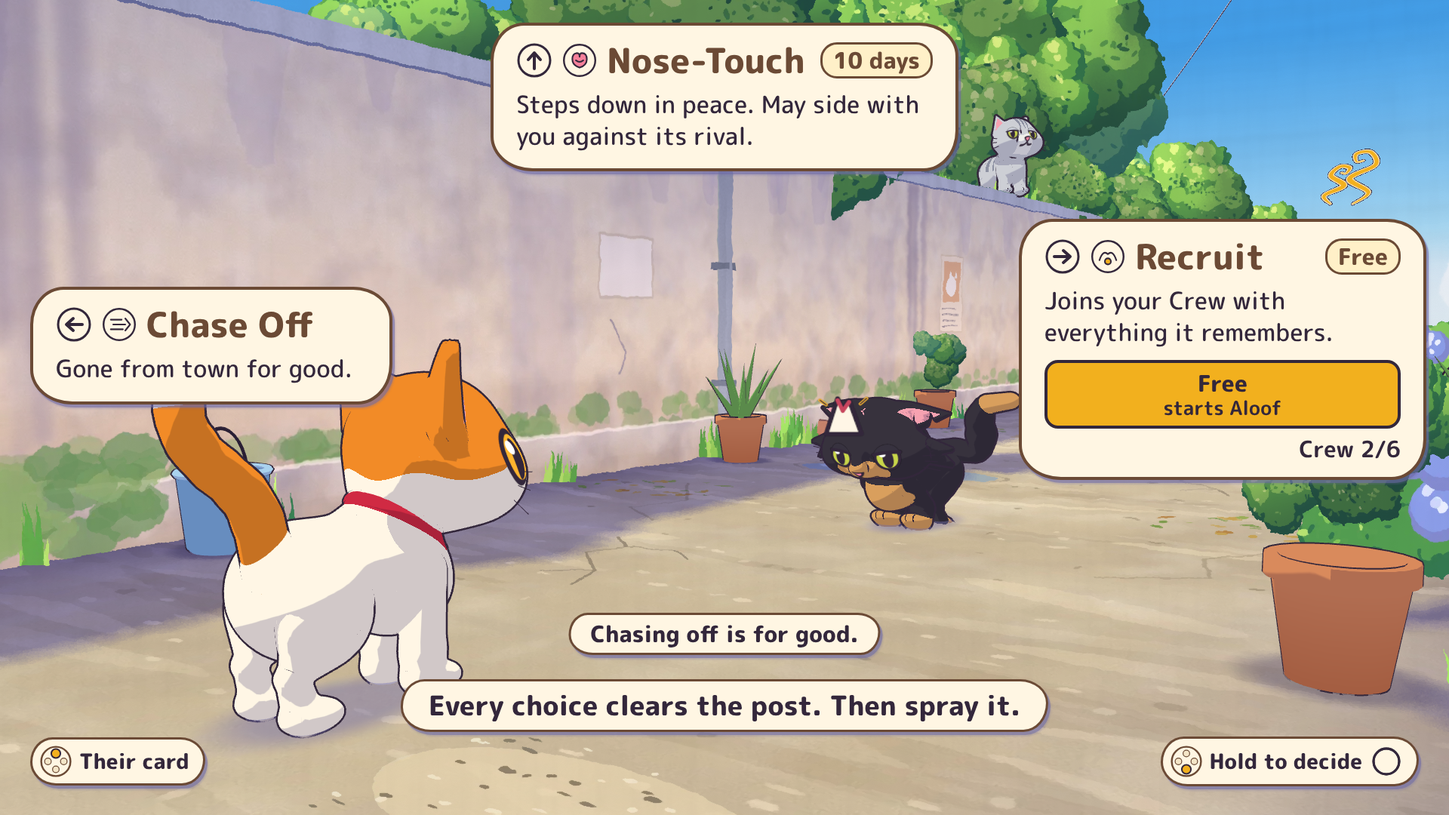
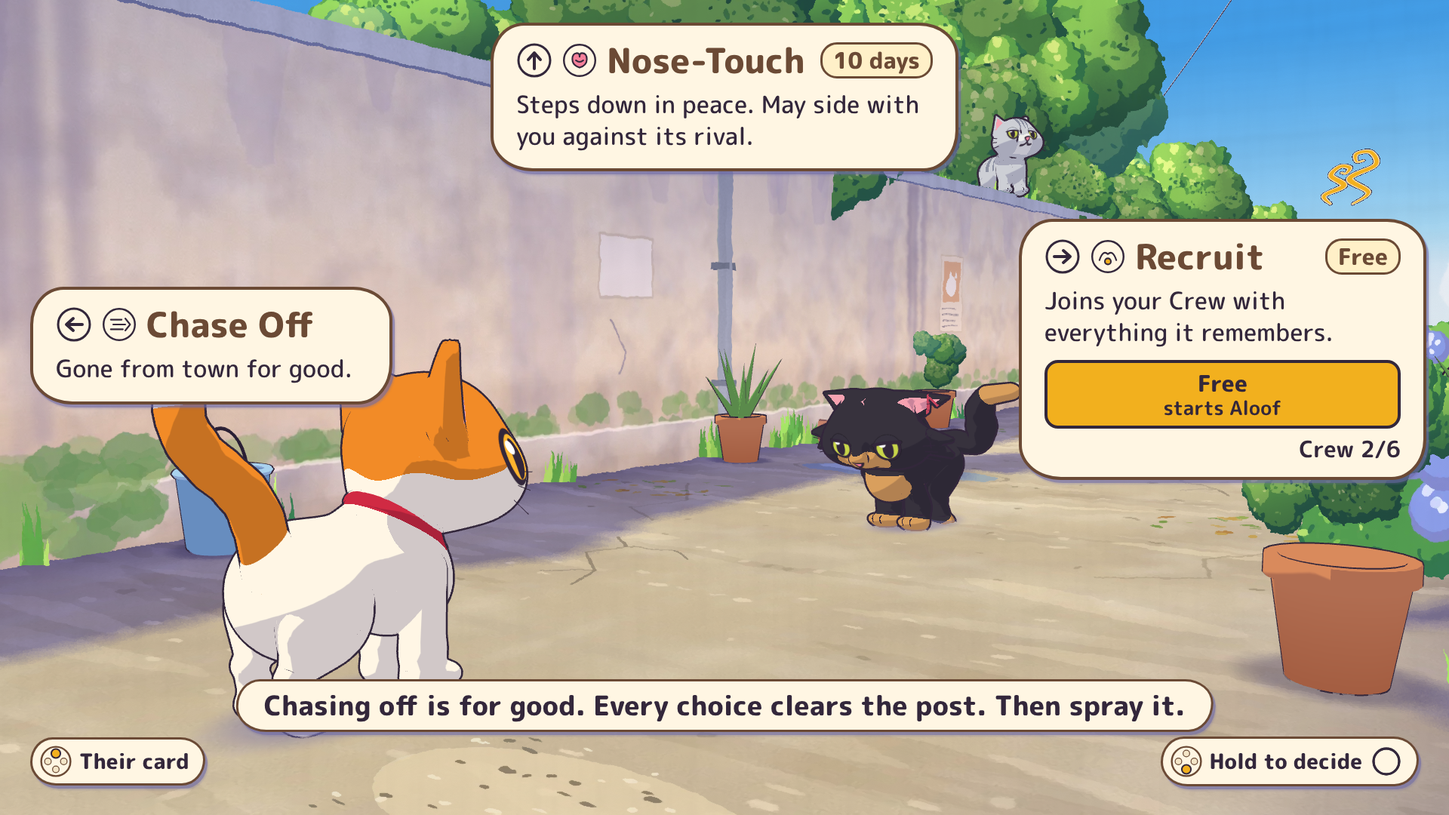
fix(M3): round 2 fixes - combat Verdict pose and look-at, ear-notch scar, bribe shot cleanup, pin glyph, closing stamp
Task: artifact-slice M3 (review-round2.md)

Claude-Session: https://claude.ai/code/session_01K9BzCtu5ca2nRxDXecreHZ

Changed region(s): [[0.1562, 0.825, 0.8438, 0.9167], [0.375, 0.7333, 0.625, 0.825], [0.5625, 0.4583, 0.7188, 0.6417]]

diff --git a/prototypes/artifact-slice/src/ui/verdict-stage.js b/prototypes/artifact-slice/src/ui/verdict-stage.js
@@ -1,49 +1,73 @@
 // PROTOTYPE - NOT FOR PRODUCTION (Cat RPG artifact showcase slice; throwaway, see README.md)
 // Staging the cat being judged at a Verdict (review round 1, fix 4; plan §1.1 #3 "shows on his model (a Scar)"; mock
-// 07): the subject sits low with its ears flat back (the 'routed' posture), and its fresh Scar is drawn on its model as
-// an inked mark at the head. Presentation only: it reads the Scar list the nemesis sim already wrote, never a cat record.
+// 07): the subject sits low with its ears flat back (the 'routed' posture), and its fresh Scar shows on its model as a
+// small notch bitten out of the camera-side ear (review round 2, fix 2). Presentation only: it reads the Scar list the
+// nemesis sim already wrote, never a cat record.
 import * as THREE from 'three';
 
-const INK = '#33273B', CREAM = '#FFF6E6', CRIMSON = '#C8455E', GOLD = '#F2B233';
-let tex = null;
-/** One inked "fresh scar" mark (a notch cut with two fresh ticks), drawn once. */
-function scarTexture() {
-  if (tex) return tex;
-  const S = 128, cv = document.createElement('canvas'); cv.width = cv.height = S;
-  const g = cv.getContext('2d'); g.lineJoin = 'round'; g.lineCap = 'round';
-  // the notch: a cream ear tip with a V bitten out, an ink line, the cut in crimson
-  g.beginPath(); g.moveTo(30, 104); g.lineTo(52, 26); g.lineTo(62, 50); g.lineTo(74, 30); g.lineTo(98, 104); g.closePath();
-  g.fillStyle = CREAM; g.fill(); g.lineWidth = 9; g.strokeStyle = INK; g.stroke();
-  g.beginPath(); g.moveTo(52, 30); g.lineTo(62, 54); g.lineTo(74, 34); g.lineWidth = 8; g.strokeStyle = CRIMSON; g.stroke();
-  // two fresh ticks
-  g.lineWidth = 7; g.strokeStyle = GOLD;
-  for (const [x0, y0, x1, y1] of [[18, 30, 30, 40], [108, 26, 96, 38]]) { g.beginPath(); g.moveTo(x0, y0); g.lineTo(x1, y1); g.stroke(); }
-  g.lineWidth = 2.5; g.strokeStyle = INK;
-  for (const [x0, y0, x1, y1] of [[18, 30, 30, 40], [108, 26, 96, 38]]) { g.beginPath(); g.moveTo(x0, y0); g.lineTo(x1, y1); g.stroke(); }
-  tex = new THREE.CanvasTexture(cv); tex.colorSpace = THREE.SRGBColorSpace;
-  return tex;
+/**
+ * Where the fresh notch goes on one ear, in the ear's own coordinates (the `aux` attribute the cat bake writes: u
+ * across, v up the ear): the mouth on the ear's outer edge a little above half its height, sized to the ear. Read from
+ * the cat's own mesh, so it fits every cast. The fill shader cuts the V (uNick / uNickS, src/render/cats/shaders.js).
+ * @param side +1 earL, -1 earR (the ear's outer edge is +u on earL and -u on earR)
+ * @returns {{nick: THREE.Vector4, size: THREE.Vector4}} | null
+ */
+export function earNick(cat, side) {
+  const sk = cat.object3D && cat.object3D.getObjectByProperty('isSkinnedMesh', true);
+  const bone = cat.bones && (side < 0 ? cat.bones.earR : cat.bones.earL);
+  if (!sk || !bone || !sk.geometry.attributes.aux) return null;
+  const bi = sk.skeleton.bones.indexOf(bone); if (bi < 0) return null;
+  const g = sk.geometry, A = g.attributes.aux, SI = g.attributes.skinIndex, SW = g.attributes.skinWeight;
+  const uv = [];
+  for (let i = 0; i < A.count; i++) {
+    let w = 0; for (let k = 0; k < 4; k++) if (SI.getComponent(i, k) === bi) w += SW.getComponent(i, k);
+    if (w >= 0.9) uv.push([A.getX(i), A.getY(i)]);
+  }
+  if (uv.length < 8) return null;
+  let v0 = Infinity, v1 = -Infinity, u0 = Infinity, u1 = -Infinity;
+  for (const [u, v] of uv) { v0 = Math.min(v0, v); v1 = Math.max(v1, v); u0 = Math.min(u0, u); u1 = Math.max(u1, u); }
+  const vE = v0 + 0.58 * (v1 - v0), band = 0.12 * (v1 - v0);
+  const edge = uv.filter(([, v]) => Math.abs(v - vE) < band).reduce((a, [u]) => Math.max(a, u * side), -Infinity);
+  if (!Number.isFinite(edge)) return null;
+  const width = u1 - u0;   // the ear's widest span (at its base)
+  return { nick: new THREE.Vector4(side, edge * side, vE, side), size: new THREE.Vector4(0.45 * width, 0.11 * (v1 - v0), 0.007, 0) };
 }
 
 /**
  * Pose the judged cat and mark its fresh Scar.
  * @param cat a createCat() handle (street rival, or a combat Fighter's `.cat`)
- * @param o {scar: true to draw the mark (the cat has a Scar from this encounter), side: +1 | -1 (which ear faces the camera)}
+ * @param o {scar: true to cut the notch (the cat has a Scar from this encounter); side: +1 earL | -1 earR, or 'auto'
+ *   with `camera`: the ear nearer that camera on the first frame it draws the cat (then fixed, so the Scar never swaps
+ *   ears when the cat turns); squash: false to skip the low-and-spread root scale (combat: the routed crouch alone)}
  * @returns undo()
  */
-export function stageSubject(cat, { scar = true, side = 1 } = {}) {
+export function stageSubject(cat, { scar = true, side = 'auto', camera = null, squash = true } = {}) {
   if (!cat) return () => {};
   if (cat.setPosture) cat.setPosture('routed');
   const o3 = cat.object3D, s0 = o3 ? o3.scale.clone() : null;
-  if (o3) o3.scale.set(s0.x * 1.06, s0.y * 0.9, s0.z * 1.06);   // low and spread, the beaten loaf of mock 07
-  let sprite = null;
-  const head = cat.bones && cat.bones.head;
-  if (scar && head) {
-    sprite = new THREE.Sprite(new THREE.SpriteMaterial({ map: scarTexture(), depthTest: false, depthWrite: false, transparent: true, toneMapped: false }));
-    sprite.name = 'verdict-scar'; sprite.renderOrder = 20;
-    sprite.position.set(0.085 * side, 0.115, 0.01); sprite.scale.setScalar(0.15);   // on the camera-side ear, big enough to read at the two-shot
-    head.add(sprite);
-  }
-  return () => { if (cat.setPosture) cat.setPosture(null); if (o3) o3.scale.copy(s0); if (sprite) { sprite.removeFromParent(); sprite.material.dispose(); } };
+  if (o3 && squash) o3.scale.set(s0.x * 1.06, s0.y * 0.9, s0.z * 1.06);   // low and spread, the beaten loaf of mock 07
+  const sk = scar && o3 ? o3.getObjectByProperty('isSkinnedMesh', true) : null;
+  const U = sk && Array.isArray(sk.material) && sk.material[0].uniforms && sk.material[0].uniforms.uNick ? sk.material[0].uniforms : null;
+  // part of the ear: depth-tested, lit and inked with it (never a sprite on the head)
+  const cut = (sd) => { const n = earNick(cat, sd); if (n) { U.uNick.value.copy(n.nick); U.uNickS.value.copy(n.size); } };
+  let hook = null, prev = null;
+  if (U && side !== 'auto') cut(side < 0 ? -1 : 1);
+  else if (U && camera) {
+    prev = sk.onBeforeRender; const x = new THREE.Vector3(), d = new THREE.Vector3();
+    hook = sk.onBeforeRender = function (r, sc, cam, ...rest) {
+      if (cam === camera) {   // the first frame through the scene camera (not the shadow pass): the lens-side ear
+        x.setFromMatrixColumn(o3.matrixWorld, 0); d.setFromMatrixPosition(camera.matrixWorld).sub(o3.getWorldPosition(new THREE.Vector3()));
+        cut(x.dot(d) >= 0 ? 1 : -1); sk.onBeforeRender = prev;
+      }
+      return prev.call(this, r, sc, cam, ...rest);
+    };
+  } else if (U) cut(-1);
+  return () => {
+    if (cat.setPosture) cat.setPosture(null);
+    if (o3) o3.scale.copy(s0);
+    if (hook && sk.onBeforeRender === hook) sk.onBeforeRender = prev;
+    if (U) U.uNick.value.set(0, 0, 0, 1);
+  };
 }
 
 /** True when the cat's newest Scar came from the encounter its Verdict is about (offer.serial), or on the offer's day. */

diff --git a/prototypes/artifact-slice/src/ui/rivalsboard.js b/prototypes/artifact-slice/src/ui/rivalsboard.js
@@ -60,6 +60,8 @@ const stamp = (g, col) => RV.stamp(g, { size: 40, color: col || C.cream });
 const moon = () => RV.stamp(`<path d="M4 -12A12 12 0 1 0 12 4A9 9 0 1 1 4 -12Z" fill="${C.cream}" ${st2}/>`, { size: 40, color: '#4A3F6E' });
 const stormIco = () => svg(30, 26, '-15 -13 30 26', `<path d="${K.blob(K.pomPts(0, -3, 10, 5, 0.16))}" fill="#4A3F55"/><path d="M-1 2L-5 10H0L-2 15L6 5H1L3 2Z" fill="${C.staticYellow}" stroke="${ink}" stroke-width="1.6"/>`);
 const sprigIco = (s = 1) => svg(34 * s, 34 * s, '-6 -30 34 34', RV.leafSprig({ x: 0, y: 0, s: 1, rot: -10 }));
+// a push pin (crimson head, ink needle), tilted: marks a pinned history entry on the full card
+const PIN = svg(26, 26, '-13 -13 26 26', `<g transform="rotate(35)"><path d="M0 4V13" stroke="${ink}" stroke-width="2.6" stroke-linecap="round"/><path d="M-7 4H7L4 -2V-8H6V-12H-6V-8H-4V-2Z" fill="${C.crimson || '#C8455E'}" ${st2}/></g>`);
 const tapeStar = `<svg class="rb-star" width="30" height="22" viewBox="-15 -11 30 22"><path d="M-14 -7H14V7H-14Z" fill="#F6E7B8"/><path d="M0 -6l2 4.4l4.8 .6l-3.5 3.4l.9 4.8l-4.2 -2.3l-4.2 2.3l.9 -4.8l-3.5 -3.4l4.8 -.6z" fill="${C.gold}" stroke="${ink}" stroke-width="1.3"/></svg>`;
 const crownSvg = (lit) => svg(60, 40, '-30 -20 60 40', K.inked('M-26 10L-26 -10L-13 0L0 -18L13 0L26 -10L26 10Z', lit ? C.gold : 'none', 2.6));
 const puffsSvg = (n, furious) => { let s = ''; const P = [[-92, -10, 22, 2], [92, -22, 25, 7], [0, -56, 21, 4]]; for (let i = 0; i < n; i++) { const [x, y, r, sd] = P[i]; s += K.dustCloud({ x, y, r: r * (furious ? 1.22 : 1), puffs: 4, seed: sd }); } return svg(260, 120, '-130 -90 260 120', s); };
@@ -140,6 +142,7 @@ const CSS = `
 .rb-full .pt { display:inline-flex; align-items:center; gap:6px; height:42px; padding:0 14px 0 6px; background:var(--cream); border:3px solid var(--ink); border-radius:8px 12px 10px 12px; font:800 24px/1 var(--font); }
 .rb-full .hist { display:flex; flex-direction:column; gap:10px; font:600 26px/1.2 var(--font); }
 .rb-full .hist b { font:800 22px/1 var(--font); color:var(--cocoa); min-width:70px; margin-right:10px; display:inline-block; white-space:nowrap; }
+.rb-full .hist i.pin { display:inline-block; width:30px; margin-right:6px; vertical-align:-4px; font-style:normal; }
 .rb-full .stage { height:470px; border-radius:30px; background:var(--recessed); display:flex; align-items:center; justify-content:center; overflow:hidden; }
 .rb-full .foot { position:absolute; right:36px; bottom:26px; display:flex; gap:12px; }
 .rb-full .legend { position:absolute; left:40px; bottom:30px; font:800 30px/1 var(--font); color:#8C6E58; transform:rotate(-6deg); border:4px solid #B04A3A; color:#B04A3A; padding:8px 18px; border-radius:10px; }
@@ -400,7 +403,9 @@ export class RivalsBoard {
     const ties = []; if (c.answersTo && m.cats[c.answersTo] && m.cats[c.answersTo].discovered) ties.push(`<span class="pt">${K.ui.portrait({ size: 34, ring: C.cream, bg: '#F7C99A', cat: m.cats[c.answersTo].kit })}${c.answersTo === 'mikan' ? 'Crew of' : 'Boss'}: ${m.cats[c.answersTo].name}</span>`);
     if (c.role === 'boss') for (const o of Object.values(m.cats)) if (o.answersTo === c.id && o.discovered && o.state !== 'gone') ties.push(`<span class="pt">${K.ui.portrait({ size: 34, ring: C.cream, bg: '#F7C99A', cat: o.kit })}Gang: ${o.name}</span>`);
     for (const t of m.tiesOf(c.id)) ties.push(`<span class="pt">${TAGICON[t.kind]}${TAGWORD[t.kind]}: ${m.cats[t.to].name}</span>`);
-    const hist = (c.historyAll || (c.history ? [c.history] : [])).map((h) => `<div><b>${h.day}</b>${h.line}</div>`).join('') || '<div>—</div>';
+    // pinned entries (listed first) carry a small pin, the rest an equal gap, so the order reads as pinned-then-recent (review round 2, fix 4)
+    const hl = c.historyAll || (c.history ? [c.history] : []), anyPin = hl.some((h) => h.pinned);
+    const hist = hl.map((h) => `<div>${anyPin ? `<i class="pin"${h.pinned ? ' title="Pinned"' : ''}>${h.pinned ? PIN : ''}</i>` : ''}<b>${h.day}</b>${h.line}</div>`).join('') || '<div>—</div>';
     const anger = c.role === 'boss' && c.context && c.context.kind === 'anger' ? `<div class="lab">ANGER</div><div class="row">${puffsSvg(c.marks.puffs || 0, c.marks.puffs >= 3).replace('width="160" height="120"', 'width="110" height="82"')}<b>${c.context.stage}</b></div><div class="row" style="font-size:24px;font-weight:600">Rises when you over-mark or counter-spray in the Lane. Cools each night.</div><div class="row" style="font-size:24px;font-weight:600">Next fight with him: ${({ Calm: 'not Fired Up', Riled: 'Fired Up for a while', Seething: 'Fired Up for a long while', Furious: 'Fired Up all fight' })[c.context.stage]}. Spent after his next fight.</div><div class="lab">OBJECTIVE</div><div class="row">Mark the Lane until he comes down.</div>` : '';
     const fears = (c.fears || []).map((x) => stamp(RV.GLYPH[x] || RV.GLYPH.question)).join('') + stamp(RV.GLYPH.question);
     f.innerHTML = `<div class="ban">${K.ui.portrait({ size: 88, ring: C.gold, bg: '#F7C99A', cat: { ...c.kit, outline: 'ink', scars: c.scars } })}${c.name.toUpperCase()} ${c.title ? `<small>${c.title}</small>` : ''}</div>

diff --git a/prototypes/artifact-slice/src/entries/combat.js b/prototypes/artifact-slice/src/entries/combat.js
@@ -541,12 +541,13 @@ function stageVerdict(id, o = {}) {
   // the judged cat sits 1.7 m in front of Mikan, toward the middle of the ring (never into a wall)
   const d = new THREE.Vector3(-M.x, 0, -M.z); if (d.lengthSq() < 1) { const e = ent(snap.controlled); d.set(e.facing[0], 0, e.facing[1]); } d.normalize();
   const S = M.clone().addScaledVector(d, 1.7); S.y = M.y;
-  vstage = { id, M, S, d, undo: o.stageSubject ? o.stageSubject(T.cat) : null };
+  vstage = { id, M, S, d, undo: null };
   verdictCam();
+  if (o.stageSubject) vstage.undo = o.stageSubject(T.cat, { camera: cam });   // the Scar goes on the lens-side ear
   const p = project(T.head.clone().set(S.x, S.y + 0.6 * T.scaleK, S.z)), w = app.clientWidth, h = app.clientHeight, k = Math.min(w / 1920, h / 1080);
   return { x: 960 + (p.x - w / 2) / k, y: 540 + (p.y - h / 2) / k };
 }
-function unstageVerdict() { if (vstage && vstage.undo) vstage.undo(); vstage = null; if (hud) { hud.el.style.visibility = ''; hud.showChrome(true); } if (scr) scr.el.style.visibility = ''; }
+function unstageVerdict() { if (vstage && vstage.undo) vstage.undo(); { const T = vstage && F(vstage.id); if (T && T.kl) { T.kl.rim.mesh.visible = true; T.clowder = null; } } vstage = null; if (hud) { hud.el.style.visibility = ''; hud.showChrome(true); } if (scr) scr.el.style.visibility = ''; }
 /** The low two-shot: Mikan left and near, the judged cat right of centre and farther; the camera stays off the walls. */
 function verdictCam() {
   const { M, S, d } = vstage, mid = M.clone().lerp(S, 0.45);
@@ -560,6 +561,7 @@ function verdictCam() {
   if (room < want) { cam.position.copy(pivot).addScaledVector(dir, Math.max(1.6, room)); cam.lookAt(mid.x, mid.y + 0.52, mid.z); cam.updateMatrixWorld(); }
 }
 /** Per frame while staged: only Mikan and the judged cat on stage, posed; HUD, rings and screen marks hidden. */
+const VERDICT_KEY = new THREE.Vector3(0x33 / 255, 0x27 / 255, 0x3B / 255);   // Ink: the judged cat's keyline at its Verdict (no side colour)
 function verdictFrame() {
   const { id, M, S } = vstage, C = F(snap.controlled), T = F(id);
   for (const f of fighters.values()) if (f !== C && f !== T) f.root.visible = false;
@@ -567,7 +569,11 @@ function verdictFrame() {
     T.root.visible = true; T.root.position.copy(S); T.root.rotation.set(0, Math.atan2(M.x - S.x, M.z - S.z), 0);
     T.pose.position.set(0, 0, 0); T.pose.rotation.set(0, 0, 0); T.pose.scale.set(1, 1, 1);
     T.fadeTarget = 1; T.fade = 1; T.stepFade(0); T.setLook('normal'); T.cat.setGait('idle', 0);
-    T.cat.lookAt(M.clone().lerp(S, 0.6)); T.head.set(S.x, S.y + 0.6 * T.scaleK, S.z);
+    // eyes up at Mikan's head (review round 2, fix 1): the routed posture already dips the head, so a ground target
+    // pitched the face into the chest. The side colour (red = enemy) goes too, the fight is over,
+    T.cat.lookAt(new THREE.Vector3(M.x, M.y + 0.6 * (C ? C.scaleK : 1), M.z)); T.head.set(S.x, S.y + 0.6 * T.scaleK, S.z);
+    // and its cream rim shell, which pokes through the crouched flank and paws as light seams
+    if (T.kl) { T.kl.key.mat.uniforms.uInk.value.copy(VERDICT_KEY); T.clowder = 'verdict'; T.kl.rim.mesh.visible = false; }
   }
   if (C) { C.root.visible = true; C.root.position.copy(M); C.root.rotation.y = Math.atan2(S.x - M.x, S.z - M.z); C.pose.rotation.set(0, 0, 0); C.fadeTarget = 1; C.fade = 1; C.stepFade(0); C.cat.lookAt(T ? T.head : null); }
   verdictCam();
@@ -613,7 +619,12 @@ function present(dt, alpha, menu = [], cut = null) {
       if (bo && bd > 1e-3) { le._opp = { dir: [(bo.pos[0] - e.pos[0]) / bd, (bo.pos[2] - e.pos[2]) / bd], dist: bd }; le._side = (e.id.charCodeAt(0) + e.id.length) % 2 ? 1 : -1; }
     }
     const koFreeze = ko && realT - ko.t0 < ko.freeze;
-    f.update(le, cut && cut.id === e.id ? dt : (frozen || koFreeze) ? 0 : dt * (s.slow_blink ? 0.05 : 1) * (ko ? 0.25 : 1), realT, tw, dt);
+    // at the Verdict vantage the two staged cats stand still on their marks: the sim may still be playing the routed
+    // bolt, which would walk the judged cat in place and aim its look from the wrong spot (review round 2, fix 1)
+    const vs = vstage && (e.id === vstage.id || e.id === s.controlled) ? vstage : null;
+    if (vs) { const [a, b] = e.id === vs.id ? [vs.S, vs.M] : [vs.M, vs.S], d = Math.hypot(b.x - a.x, b.z - a.z) || 1;
+      f.update({ ...le, pos: [a.x, a.y, a.z], facing: [(b.x - a.x) / d, (b.z - a.z) / d], anim: 'idle', anim_t: 0, intent: null, _opp: null, can_move: 1, attack: null }, dt, realT, tw, dt); }
+    else f.update(le, cut && cut.id === e.id ? dt : (frozen || koFreeze) ? 0 : dt * (s.slow_blink ? 0.05 : 1) * (ko ? 0.25 : 1), realT, tw, dt);
     if (ko && ko.f === f && realT - ko.t0 < ko.freeze + ko.slowS) {
       f.root.visible = true;
       // the defeated cat FLIES (C12): launched away from its attacker on a high arc, spinning, a dust trail behind

diff --git a/prototypes/artifact-slice/src/ui/sniffcards.js b/prototypes/artifact-slice/src/ui/sniffcards.js
@@ -25,7 +25,7 @@ const CSS = `
 .sn-main .tag { position:absolute; left:-18px; top:-24px; transform:rotate(-6deg); }
 .sn-main.legend { background:#EFE3C8; border-color:#9C8A72; }
 .sn-main.legend .por { filter:sepia(.6) saturate(.6) opacity(.85); }
-.sn-main .stampx { position:absolute; left:50%; top:200px; transform:translateX(-50%) rotate(-12deg); padding:10px 26px; border:6px solid #B04A3A; border-radius:12px; color:#B04A3A; font:800 54px/1 var(--font); background:rgba(255,246,227,.6); white-space:nowrap; }
+.sn-main .stampx { position:absolute; left:calc(50% + 175px); top:250px; transform:translateX(-50%) rotate(-12deg); padding:8px 18px; border:6px solid #B04A3A; border-radius:12px; color:#B04A3A; background:rgba(255,246,227,.6); line-height:0; }
 .sn-side { position:absolute; width:400px; height:300px; padding:18px 22px; text-align:center; animation:snin .24s steps(4) .1s both; }
 .sn-side .ti { font:800 34px/1.1 var(--font); margin-top:8px; }
 .sn-side .ln { font:600 26px/1.2 var(--font); margin-top:8px; }
@@ -34,6 +34,8 @@ const CSS = `
 .sn-foot { position:absolute; right:40px; bottom:34px; display:flex; gap:14px; }
 .sn-foot .k-prompt { white-space:nowrap; cursor:pointer; }
 `;
+// closing C's stamp: the Chase Off glyph (speed lines and a chevron: gone) in the stamp's red, so the headline is not said twice (review round 2, fix 4)
+const RUNGLYPH = `<svg width="96" height="64" viewBox="-24 -16 48 32">${RV.GLYPH.run.split(C.ink).join('#B04A3A').replace('stroke-width="2.6"', 'stroke-width="3.4"')}</svg>`;
 const tape = `<svg width="60" height="40" viewBox="-30 -20 60 40"><path d="M-28 -14H28V14H-28Z" fill="#F6E7B8" transform="rotate(-8)"/><path d="M0 -12l4 8.8l9.6 1.2l-7 6.8l1.8 9.6l-8.4 -4.6l-8.4 4.6l1.8 -9.6l-7 -6.8l9.6 -1.2z" fill="${C.gold}" stroke="${C.ink}" stroke-width="2"/></svg>`;
 
 export class SniffCards {
@@ -66,7 +68,7 @@ export class SniffCards {
         <div class="ti">${main0.title || 'Sworn Rival'}</div><div class="ln">${main0.line || `${t.name} has chosen you.`}</div>${main0.best_line ? `<div class="ln" style="font-size:28px;font-weight:500;color:var(--cocoa)">${main0.best_line.day} “${main0.best_line.line}”</div>` : ''}</div>`;
     else if (b === 'B') main = `<div class="k-panel sn-main"><div class="por">${por(t, 300, { expr: 'neutral', collar: 'cord' })}</div>
         <div class="ti">${main0.title || 'Wears the bell now'}</div><div class="ln">${main0.line || 'On the Posse bench.'}</div></div>`;   // subtitle: his own record, never the headline again (review round 1, fix 6)
-    else main = `<div class="k-panel sn-main legend"><div class="por">${por(t, 300, { expr: 'angry' })}</div><div class="stampx">Run out of town</div>
+    else main = `<div class="k-panel sn-main legend"><div class="por">${por(t, 300, { expr: 'angry' })}</div><div class="stampx">${RUNGLYPH}</div>
         <div class="ti">${main0.title || 'Run out of town'}</div><div class="ln">${main0.line || 'Gone from the Lane.'}</div></div>`;
     const ch = m.cats.challenger, df = m.cats.daifuku;
     const side = `<div class="k-panel sn-side a">${tape}<div style="height:110px;display:flex;align-items:center;justify-content:center">${'<svg width="110" height="110" viewBox="-55 -55 110 110"><circle r="50" fill="#4A3657"/><text y="18" text-anchor="middle" font-family="M PLUS Rounded 1c" font-weight="800" font-size="56" fill="#FFF6E3">?</text></svg>'}</div><div class="ti">${chI.title || 'A stranger\u2019s scent'}</div><div class="ln">${chI.line || `A stranger is staking ${ch.stake || 'Laundry Pole Yard'}.`}</div></div>

diff --git a/prototypes/artifact-slice/src/ui/verdict.js b/prototypes/artifact-slice/src/ui/verdict.js
@@ -49,7 +49,6 @@ const CSS = `
 .vd-meta { display:flex; justify-content:space-between; margin-top:12px; font:700 30px/1 var(--font); }
 .vd-meta .warn { color:#B0607A; font-size:26px; display:block; text-align:right; margin-top:10px; }
 .vd-strip { position:absolute; left:50%; top:900px; transform:translateX(-50%); white-space:nowrap; max-width:none; padding:14px 34px; font:800 36px/1 var(--font); }
-.vd-hint { position:absolute; left:50%; top:812px; transform:translateX(-50%); white-space:nowrap; max-width:none; padding:10px 26px; font:800 30px/1 var(--font); }
 .vd-foot { position:absolute; left:40px; right:40px; top:976px; display:flex; justify-content:space-between; align-items:center; }
 .vd-foot .k-prompt { white-space:nowrap; cursor:pointer; }
 .vd-tell { position:absolute; left:var(--tx,1120px); top:var(--ty,520px); max-width:none; white-space:nowrap; transform:translate(-50%,-100%); padding:14px 22px; font:800 28px/1.15 var(--font); text-align:center; }
@@ -169,12 +168,14 @@ export class Verdict {
       ${card('left', 'left', 'Chase Off', ICON.chase, '', 'Gone from town for good.')}
       ${card('right', 'right', 'Recruit', ICON.recruit, chipR, 'Joins your Crew with everything it remembers.', steps)}
       ${tell}
-      ${f.firstEver ? `<div class="k-bubble k-bubble--notail vd-hint">${f.hint || 'Chasing off is for good.'}</div>` : ''}
-      <div class="k-bubble k-bubble--notail vd-strip">${f.strip || 'Every choice clears the post. Then spray it.'}</div>
+      <div class="k-bubble k-bubble--notail vd-strip">${f.firstEver ? `${f.hint || NDATA.k.verdict.first_hint} ` : ''}${f.strip || 'Every choice clears the post. Then spray it.'}</div>
       <div class="vd-foot"><span class="k-prompt">${K.ui.faceButtons({ size: 42, lit: 'n' })}Their card</span>
         ${r.open && r.steps.length > 1 && R === 'right' ? `<span class="k-prompt"><span class="k-btn k-key" style="height:44px;min-width:56px;font-size:24px">Q</span><span class="k-btn k-key" style="height:44px;min-width:56px;font-size:24px">E</span>Bribe</span>` : '<span></span>'}
         <span class="k-prompt vd-hold">${K.ui.faceButtons({ size: 42, lit: 's' })}${this.armed ? 'Press again to decide' : 'Hold to decide'}<span class="ring">${ring(this.holding ? Math.min(1, this.hold / 0.6) : this.armed ? 1 : 0)}</span></span></div>
       ${pay ? `<div class="vd-pay">${pay}</div>` : ''}</div>`;
+    // a centred tell bubble never runs under the Recruit card (review round 2, fix 3): keep its right edge 24 px clear
+    const tb = this.el.querySelector('.vd-tell:not(.vd-tell--r)');
+    if (tb) { const rc = this.el.querySelector('.vd-card.right'), w = tb.offsetWidth, lim = (rc ? rc.offsetLeft : 1350) - 24 - w / 2; if (tx > lim) tb.style.left = `${Math.max(540 + w / 2, lim)}px`; }
     this.el.querySelectorAll('.vd-card').forEach((e) => {
       e.onmouseenter = () => this.raise(e.dataset.d);
       e.onmousedown = (ev) => { if (ev.button === 0) { this.raise(e.dataset.d); this.press(); } };

diff --git a/prototypes/artifact-slice/src/ui/m3.js b/prototypes/artifact-slice/src/ui/m3.js
@@ -138,6 +138,9 @@ export class M3 {
       this.rival3d.setLighting({ keyDir: new THREE.Vector3(...p.catDir).normalize(), keyColor: new THREE.Color(p.catKey), shadeColor: new THREE.Color(p.shadow ? p.catShade : p.catShade), rimColor: new THREE.Color(p.catRim) });
     }
     Standoff.stage(ctx, this.rival3d, 2.1);
+    // the Lane's wall sitter is Kagi: while Kagi is the cat staged in front of Mikan, the one on the wall steps out of
+    // view, so there is one Kagi on screen (review round 2, fix 3)
+    if (ctx.sitter) ctx.sitter.object3D.visible = id !== 'kagi';
   }
   keyUp(e) { if (this.verdict.isOpen) return this.verdict.key(e.code, e); return false; }
   openVerdict(id) {
@@ -158,7 +161,7 @@ export class M3 {
     // the cat being judged sits low, ears back, its fresh Scar on its model (review round 1, fix 4; mock 07)
     if (this.unstage) this.unstage();
     let scar = false; try { scar = freshScar(town && town.cat(id), town && town.verdictOffer()); } catch (e) { /* no mark */ }
-    this.unstage = this.rival3d ? stageSubject(this.rival3d, { scar, side: -1 }) : null;
+    this.unstage = this.rival3d ? stageSubject(this.rival3d, { scar, camera: this.ctx.cam }) : null;
     if (this.rival3d) this.rival3d.lookAt(this.ctx.mikanPos.clone().lerp(this.rival3d.object3D.position, 0.55));   // head low, eyes on the ground before her
     this.showStreetUI(false); this.twoShot(1); this.ctx.renderStreet();
     this.verdict.open({ cat: c, life: town && town.life ? town.life : this.branch ? 2 : 1, town, raise: this.ctx.opt.test ? new URLSearchParams(location.search).get('card') : null, step: new URLSearchParams(location.search).get('step'),
@@ -167,6 +170,7 @@ export class M3 {
         if (this.unstage) { this.unstage(); this.unstage = null; } this.rivalTurn(null);
         this.lastVerdict = v; const arc = id === 'togemaru' && !this.branch; if (arc) this.branch = { nose: 'A', recruit: 'B', chase: 'C' }[v.kind];
         try { if (town && town.applyVerdict) { const evs = town.applyVerdict(v.kind, v.step && v.step.id !== 'free' ? { bribe: v.step.id } : {}); this.lastApplied = evs; } } catch (e) { console.warn('nemesis verdict not applied', e); }
+        if (this.ctx.sitter) this.ctx.sitter.object3D.visible = true;
         if (!arc) { if (this.rival3d) this.rival3d.object3D.visible = false; this.showStreetUI(true); this.ctx.restoreGlobals(null); return; }
         this.lifeTown();   // the montage jump: Life 2 day 2, played by the rules from this Verdict
         if (this.rival3d) this.rival3d.object3D.visible = false;

diff --git a/prototypes/artifact-slice/src/render/cats/shaders.js b/prototypes/artifact-slice/src/render/cats/shaders.js
@@ -30,11 +30,21 @@ export function fillFrag(coatGlsl, colorNames) {
   uniform sampler2D uEyes; uniform vec3 uEyeC[2]; uniform vec3 uEyeAx[2]; uniform vec3 uEyeT[2]; uniform float uEyeHalf;
   float vP; // part with legs (5) folded into body (0) for the coat functions
   uniform float uSil; uniform vec3 uSilCol; uniform vec4 uPaws; uniform vec3 uInkF;
+  uniform vec4 uNick; uniform vec4 uNickS; // M3 Verdict: a fresh notch cut in one ear (x: ear side ±1, 0 = none; y,z: the
+                                            // mouth on the outer edge in ear-local u,v; w: outward sign of u. uNickS: depth, half-width, rim, -)
   ${colorNames.map((n) => `uniform vec3 c_${n};`).join('\n')}
   ${coatGlsl}
   void main() {
     if (uSil > 0.5) { gl_FragColor = vec4(uSilCol, 1.0); return; }
     vP = vPart > 4.5 ? 0.0 : vPart;
+    // the notch (review round 2, fix 2): a V bitten into the ear's outer edge; the fill is cut away, so the ear's inked
+    // back (the hull) shows through as a dark wedge, with a crimson fresh-cut rim on the ear around it
+    bool nickRim = false;
+    if (uNick.x != 0.0 && vPart > 0.5 && vPart < 1.5 && vRest.x * uNick.x > 0.0 && vAux.y > 0.004 && abs(vAux.z) < 0.03) {
+      float along = (uNick.y - vAux.x) * uNick.w + 0.004, across = abs(vAux.y - uNick.z);
+      if (along > 0.0 && across < uNickS.y * (1.0 - along / uNickS.x)) discard;
+      nickRim = along > -0.004 && across < (uNickS.y + uNickS.z) * (1.0 - along / (uNickS.x + uNickS.z * 1.6));
+    }
     vec3 base = coat();
     // two tones, hard terminator (antialiased over one pixel)
     float ndl = dot(normalize(vWN), uKeyDir);
@@ -73,6 +83,7 @@ export function fillFrag(coatGlsl, colorNames) {
         }
       }
     }
+    if (nickRim) col = vec3(0.784, 0.271, 0.369);   // Crimson #C8455E (raw sRGB, like every kit colour here)
     gl_FragColor = vec4(col, 1.0);
   }`;
 }

diff --git a/prototypes/artifact-slice/src/ui/m3-combat.js b/prototypes/artifact-slice/src/ui/m3-combat.js
@@ -28,7 +28,7 @@ export function combatVerdict(ev, log, { patch = 'LPY', delayMs = 2600, test = f
       hud(false);   // key-screens §4.5: the HUD hides under the cards and returns after the payoff
       // review round 1, fix 4: cut to the Verdict vantage on the judged cat (low, ears back, its fresh Scar on its model)
       let tellAt = { x: 1130, y: 520 };
-      try { const scar = freshScar(town.cat(off.cat), off); const t = stage && stage(off.cat, { stageSubject: (c) => stageSubject(c, { scar, side: -1 }) }); if (t) tellAt = t; } catch (e) { console.warn('Verdict vantage unavailable', e); }
+      try { const scar = freshScar(town.cat(off.cat), off); const t = stage && stage(off.cat, { stageSubject: (c, o2 = {}) => stageSubject(c, { scar, camera: o2.camera, squash: false }) }); if (t) tellAt = t; } catch (e) { console.warn('Verdict vantage unavailable', e); }
       verdict.open({ cat, life: town.life || 2, town, tellAt, onChoose: (v) => { hud(true); if (unstage) unstage(); try { town.applyVerdict(v.kind, v.step && v.step.id !== 'free' ? { bribe: v.step.id } : {}); } catch (e) { console.warn('verdict not applied', e); } } });
       const loop = (t0) => (now) => { if (!verdict.isOpen) return; verdict.frame(Math.min(0.05, (now - t0) / 1000)); requestAnimationFrame(loop(now)); };
       requestAnimationFrame(loop(performance.now()));

diff --git a/prototypes/artifact-slice/src/entries/main.js b/prototypes/artifact-slice/src/entries/main.js
@@ -514,7 +514,7 @@ async function boot() {
   scent = new ScentLayer(lateScene, L, terr, sTex, (z) => gAt(0, z));
   if (daifuku) scent.bossMarker(daifuku.object3D, 0.95);
   hud = opt.hud ? new StreetHUD() : null;
-  m3 = new M3({ renderer, tex, post, opt, hud, project, cam, get mikan() { return mikan; }, lane: L, terr, get mikanPos() { return mikanPos; }, get phase() { return ph.name; }, lateScene, catRoots, gAt, createCat, keysClear: () => keys.clear(),
+  m3 = new M3({ renderer, tex, post, opt, hud, project, cam, get mikan() { return mikan; }, get sitter() { return sitter; }, lane: L, terr, get mikanPos() { return mikanPos; }, get phase() { return ph.name; }, lateScene, catRoots, gAt, createCat, keysClear: () => keys.clear(),
     saveGlobals: () => ({ map: U.shadowMap.value, texel: U.shadowTexel.value }),
     restoreGlobals: (g) => { if (g) { U.shadowMap.value = g.map; U.shadowTexel.value = g.texel; } setPhaseKey(ph.to ? mixPhase(ph.from, ph.to, ss(ph.k)) : PHASES[ph.name]); U.lampWave.value = ph.lampT >= 0 ? ph.lampT : -1; layoutCamera(); },
     renderStreet: () => render(), stepStreet: (dt) => step(dt) });

diff --git a/prototypes/artifact-slice/src/render/cats/cat.js b/prototypes/artifact-slice/src/render/cats/cat.js
@@ -108,6 +108,7 @@ export function createCatInternal(opts = {}) {
     uEyeC: { value: eyeC0.map((v) => v.clone()) }, uEyeAx: { value: [new THREE.Vector3(0, 0, 1), new THREE.Vector3(0, 0, 1)] }, uEyeT: { value: [new THREE.Vector3(1, 0, 0), new THREE.Vector3(1, 0, 0)] },
     uSil: { value: silhouette ? 1 : 0 }, uSilCol: { value: hexV(silColor) }, uInkF: { value: hexV(INK) },
     uPaws: { value: meta.paws ? new THREE.Vector4(meta.paws.xF, meta.paws.xH, meta.paws.zF, meta.paws.zH) : new THREE.Vector4(9, 9, 0, 0) },
+    uNick: { value: new THREE.Vector4(0, 0, 0, 1) }, uNickS: { value: new THREE.Vector4(0.02, 0.012, 0.005, 0) },   // M3 Verdict notch (off)
   };
   for (const n of colorNames) U['c_' + n] = { value: hexV(style.colors[n]) };
   const fill = new THREE.ShaderMaterial({ uniforms: U, vertexShader: fillVert, fragmentShader: fillFrag(style.glsl, colorNames) });

diff --git a/prototypes/artifact-slice/src/anim/catAnim.js b/prototypes/artifact-slice/src/anim/catAnim.js
@@ -40,7 +40,7 @@ export const POSTURE = {
   comma: { earX: -0.45, earZ: 0.38, head: 0.16, chest: 0.06, crouch: 0.5 },      // Fraidy: ears flat back, half-crouched
   pom: { earX: 0, earZ: 0, head: 0, chest: 0, crouch: 0 },                        // Mikan: the player's personality
   mikan: { earX: 0, earZ: 0, head: 0, chest: 0, crouch: 0 },
-  routed: { earX: -0.95, earZ: 0.85, head: 0.34, chest: 0.1, crouch: 0.75 },        // a beaten cat at its Verdict: low, ears flat back (mock 07)
+  routed: { earX: -0.8, earZ: 0.72, head: 0.34, chest: 0.1, crouch: 0.5 },          // a beaten cat at its Verdict: low, ears flat back (mock 07); crouch 0.5 keeps the hocks unfolded (review round 2)
 };
 
 function mulberry(seed) {

diff --git a/production/qa/evidence/artifact-slice/M3/README.md b/production/qa/evidence/artifact-slice/M3/README.md
@@ -10,7 +10,7 @@ Facts come from the nemesis simulation (`src/sim/nemesis/`, `createTown({start: 
 | `board-lane-focus-togemaru.png` | Focus Togemaru (keys): lift + gold rim, his arrow bright, Goma Rival tag, others dim, card (59 calls, 147k tris, 14 text items) |
 | `board-lane-focus-daifuku.png` | Focus the Boss: every member arrow bright, "Old Gang: Hige · the Bell" line in the card, anger card (59 calls, 147k tris, 14 text items) |
 | `board-lane-focus-silhouette.png` | Focus a silhouette: "?" pom, "Not met yet" card, no tags (58 calls, 140k tris, 9 text items) |
-| `board-lane-full-card.png` | South: the full Rival card, every history entry pinned first (first sniff, notch, fled, routed, nose) (59 calls, 147k tris, 7 text items) |
+| `board-lane-full-card.png` | South: the full Rival card, every history entry, pinned first with a pin glyph (first sniff, notch), then fled, routed, nose (59 calls, 147k tris, 7 text items) |
 | `board-outsiders.png` | Outsiders: the challenger silhouette beside its stake stamp (20 calls, 17k tris, 5 text items) |
 | `board-bell-focus-hige.png` | Bell: Crew arrows to Mikan; Hige focused: "Before you" history, "Old Boss: Daifuku · the Lane" line in the card (32 calls, 65k tris, 14 text items) |
 | `board-bell-focus-kinako.png` | Bell: Kinako shows no tag while Sasa is unmet (32 calls, 65k tris, 11 text items) |
@@ -18,23 +18,23 @@ Facts come from the nemesis simulation (`src/sim/nemesis/`, `createTown({start: 
 | `board-bell-B.png` | Branch B: Togemaru in the Bell scene (36 calls, 127k tris, 16 text items) |
 | `board-lane-C.png` | Branch C: Togemaru Chased Off, a legend card on his spot (54 calls, 126k tris, 6 text items) |
 | `standoff-memory.png` | L1D2 Standoff: the sim’s memory line; the Fight prompt locked 1 s (ring) |
-| `verdict-l1-none.png` | L1D2 Verdict on Togemaru: three cards, no focus, first-Verdict hint bubble (5 words); Togemaru low, ears back, fresh notch on his ear |
+| `verdict-l1-none.png` | L1D2 Verdict on Togemaru: three cards, no focus, the first-Verdict hint and the strip as one line; Togemaru low, ears back, a fresh notch cut in his lens-side ear |
 | `verdict-l1-up.png` | Nose-Touch raised: tell "Tail still." (Grudge 43 < 45) |
-| `verdict-l1-left.png` | Chase Off raised: ears drop, Mikan turns away |
+| `verdict-l1-left.png` | Chase Off raised: ears drop, Mikan turns away; the tell bubble stays clear of the Recruit card |
 | `verdict-l1-right.png` | Recruit raised: Life 1 "Free" step, starts Aloof |
 | `verdict-l2-right.png` | Life 2 Verdict on Goma from the sim: Recruit greyed in place; the bubble agrees ("Turns its tail to the bell.") and Goma turns his back. Goma is not slice-recruitable (Nemesis §3.1 DR-01) |
-| `verdict-l2-bribe.png` | The Bribe row from a real sim offer on Kagi (test start test_l2_kagi_rout): Fair 96 open, Feast 192 short (Stash 150), Crew 4/6, eyes on the fish |
+| `verdict-l2-bribe.png` | The Bribe row from a real sim offer on Kagi (test start test_l2_kagi_rout): Fair 96 open, Feast 192 short (Stash 150), Crew 4/6, eyes on the fish; the wall sitter (Kagi) is out of view, so one Kagi on screen |
 | `verdict-l2-up.png` | Life 2 Verdict on Goma: Nose-Touch tell from the sim |
 | `declaration-A.png` | L2D2 Sniff, branch A: the Declaration card (Sworn Rival) |
 | `closing-B.png` | L2D2 Sniff, branch B: "Wears the bell now" |
-| `closing-C.png` | L2D2 Sniff, branch C: "Run out of town" |
+| `closing-C.png` | L2D2 Sniff, branch C: "Run out of town" (the stamp is the Chase Off glyph, not the headline again) |
 | `pause-rivals.png` | Pause: Mikan · Rivals · Options, the Rivals tab |
 | `board-lane-hover-togemaru.png` | Mouse hover (ray against the cat capsules) focuses Togemaru after 120 ms |
 
 ## Timing and budget
 
-- First open (builds the three sets and the cats): **210.3 ms** (SwiftShader); re-open: **9.3 ms** (budget 300 ms).
-- Per scene (calls / triangles / switch ms): lane 58 / 139766 / 4.9 · outsiders 20 / 17054 / 6.5 · bell 31 / 58346 / 40.8 (budget 200 calls, 250k tris).
+- First open (builds the three sets and the cats): **215.8 ms** (SwiftShader); re-open: **10.1 ms** (budget 300 ms).
+- Per scene (calls / triangles / switch ms): lane 58 / 139766 / 4.6 · outsiders 20 / 17054 / 6.8 · bell 31 / 58346 / 49.5 (budget 200 calls, 250k tris).
 - Hover: before 120 ms `null`, after `togemaru`, tags ["rival:goma"].
 - Keys from rest (Up x3): {"first":"tsubu","second":"kagi","third":"kuri"}.
 
@@ -59,3 +59,20 @@ Fixes from `review-round1.md` (2026-11-25). Sim first, then presentation. Nemesi
 | 6 | Memory is shown. Sim: an authored pre-game entry is labelled "Before you" instead of "L1 D0". The full card lists every `history[]` entry with pinned entries first; for Togemaru that is first sniff, notch, fled, routed, nose. The closing cards' subtitles come from the cat's own record and do not repeat the headline: B "Aloof. Notched. On the Posse bench.", C "Notched. Left Laundry Pole Yard behind." | `board-lane-full-card.png`, `board-bell-focus-hige.png`, `closing-B.png`, `closing-C.png` |
 
 Notes: I looked at every re-shot PNG before keeping it. Some PNGs re-rendered byte-identical (`declaration-A`, `standoff-memory`, `pause-rivals`, `board-outsiders`). The combat sandbox town is in-memory only and writes no discovery to a save. The Scar mark is an inked sprite on the head bone, not a texture edit, and it stays visible when the cat turns its back.
+
+## Round 2 fixes
+
+Fixes from `review-round2.md` (2026-11-25). Presentation only: no sim, data or test change. Unit tests 173/173; `nemesis-run --branch all`
+gives the same end states (A Truce G 0 R 38 · B Crew G 22 R 23 · C Gone G 25 R 10); build OK; both publish checks OK (65 files). Patent §5 stays green:
+the stage still only reads the sim's Scar list, and hiding the wall Kagi is camera dressing. Mikan's meshes are untouched.
+
+| # | Fix | Evidence |
+|---|---|---|
+| 1 | Combat Verdict pose. Two causes, both fixed in `src/entries/combat.js`. (a) The sim was still playing Goma's routed bolt, so each frame the Fighter walked him in place and aimed his look from his sim position, not his mark; the two staged cats now update on their marks, standing, facing each other. (b) The look target was a ground point; Goma now looks at Mikan's head height, so the routed head dip (0.34) is the only pitch. The light seams were the Fighter's cream rim shell poking through the crouched flank and paws (checked with `?rim=0`); the judged cat's rim shell is off at the Verdict and its red enemy keyline becomes Ink. The `routed` posture crouches less (0.75 to 0.5) so the hocks never fold; its ears are a little less flat (-0.95/0.85 to -0.8/0.72). The root squash stays on the street, not in combat | `verdict-combat.png`: Goma at 3/4, eyes above the muzzle, no seams |
+| 2 | The Scar is a notch in the ear. The head-bone sprite is gone. The cat fill shader takes a notch (`uNick`, off by default) and cuts a V into the outer edge of one ear, in the ear's own coordinates from the bake (`aux`), sized to that ear: the fill is cut away, so the ear's inked back shows as a dark wedge, with a crimson fresh-cut rim on the ear's own colour around it. It is depth-tested and lit with the ear. The ear is the one nearer the scene camera on the first frame (then fixed, so it never swaps ears when the cat turns its back) | `verdict-combat.png`, `verdict-l1-none.png`, `verdict-l2-up.png`, `verdict-l2-right.png` |
+| 3 | Verdict tidy. The Lane's wall sitter is Kagi, so it steps out of view while Kagi is the staged cat. A centred tell bubble keeps its right edge 24 px clear of the Recruit card. On the first Verdict the hint and the strip are one line: "Chasing off is for good. Every choice clears the post. Then spray it." | `verdict-l2-bribe.png`, `verdict-l1-left.png`, `verdict-l1-none.png` |
+| 4 | Memory polish. Pinned history entries on the full card carry a small crimson push pin, and the others an equal gap. The closing-C stamp is the Chase Off glyph in stamp red, moved off the face, so the headline is not said twice | `board-lane-full-card.png`, `closing-C.png` |
+
+Notes: I looked at every re-shot PNG, and zoomed on Goma's face and ear in `verdict-combat.png` and on the judged cat's ear in each street Verdict. On
+Togemaru's black coat the dark wedge is close to the fur, so the crimson rim carries the notch; it lands on his left ear, the ear his mesh notch is on.
+`board-bell-focus-hige.png` and `board-lane-focus-daifuku.png` re-rendered with the focus card a pixel or two along its slide-in; the content is the same.
